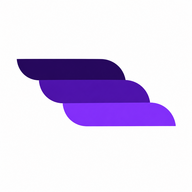
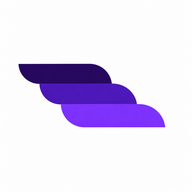
chore: update company branding assets
Replace company logo files and update CDN image URLs across application components.

Changed region(s): [[0.0625, 0.2812, 0.9375, 0.6875]]

diff --git a/src/components/Footer.tsx b/src/components/Footer.tsx
@@ -22,7 +22,7 @@ export const Footer: React.FC<FooterProps> = ({ onNavigate, onOpenContact }) => 
                   className="w-full h-full object-contain"
                   onError={(e) => {
                     const target = e.currentTarget;
-                    target.src = 'https://www.image2url.com/r2/default/images/1791437548072-14738165-2d46-4ff2-bb29-16207b85d14a.png';
+                    target.src = 'https://www.image2url.com/r2/default/images/1791440342593-5c6dfe16-78d8-4faf-ae83-2a983a248802.png';
                   }}
                 />
               </div>

diff --git a/src/components/AboutPage.tsx b/src/components/AboutPage.tsx
@@ -113,7 +113,7 @@ export const AboutPage: React.FC<AboutPageProps> = ({ onOpenContact }) => {
                   className="w-full h-full object-contain"
                   onError={(e) => {
                     const target = e.currentTarget;
-                    target.src = 'https://www.image2url.com/r2/default/images/1791437548072-14738165-2d46-4ff2-bb29-16207b85d14a.png';
+                    target.src = 'https://www.image2url.com/r2/default/images/1791440342593-5c6dfe16-78d8-4faf-ae83-2a983a248802.png';
                   }}
                 />
               </div>

diff --git a/src/components/Header.tsx b/src/components/Header.tsx
@@ -40,7 +40,7 @@ export const Header: React.FC<HeaderProps> = ({
                 className="w-full h-full object-contain p-0.5"
                 onError={(e) => {
                   const target = e.currentTarget;
-                  target.src = 'https://www.image2url.com/r2/default/images/1791437548072-14738165-2d46-4ff2-bb29-16207b85d14a.png';
+                  target.src = 'https://www.image2url.com/r2/default/images/1791440342593-5c6dfe16-78d8-4faf-ae83-2a983a248802.png';
                 }}
               />
             </div>
